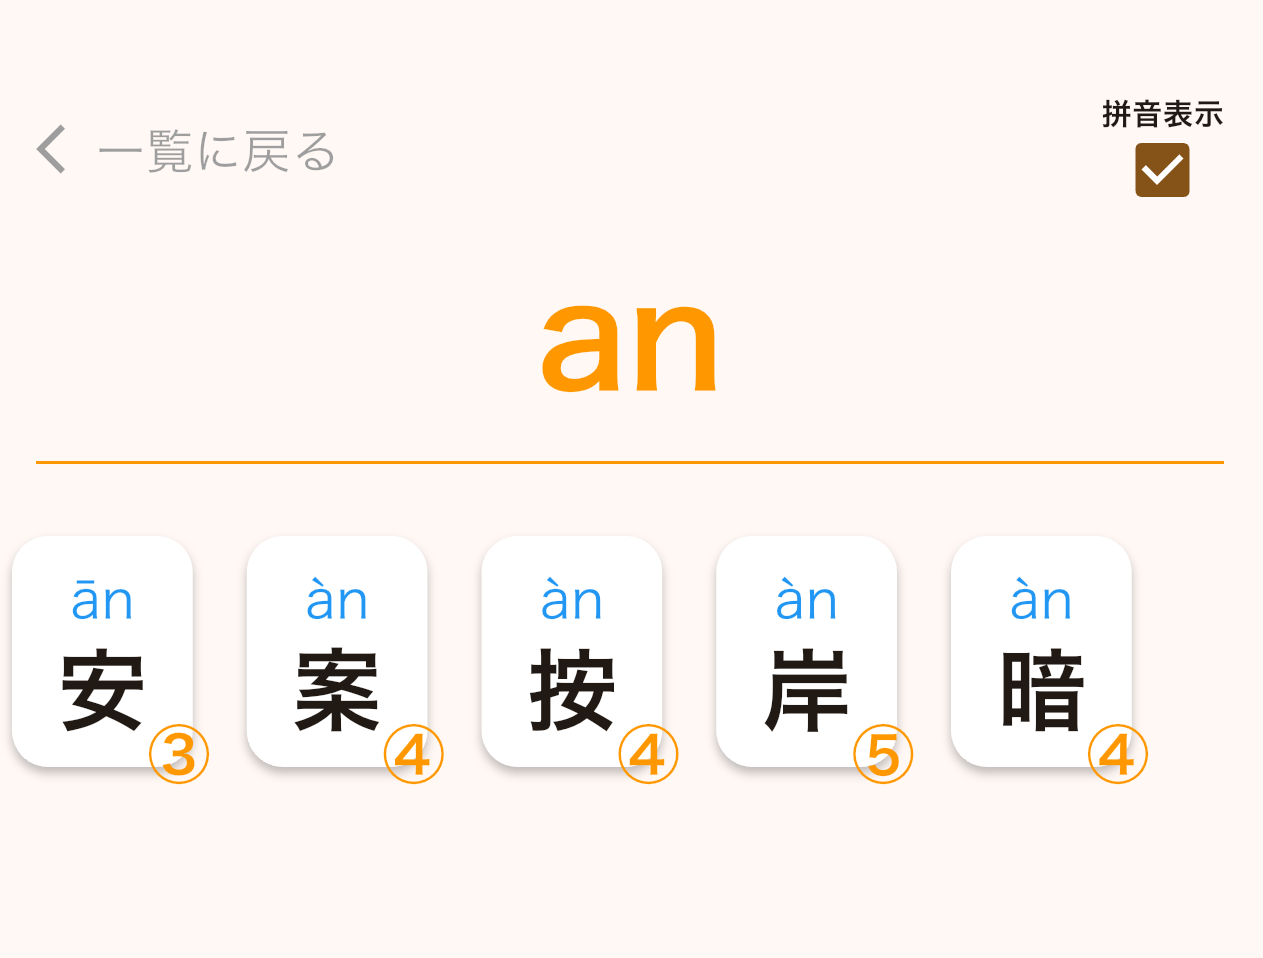
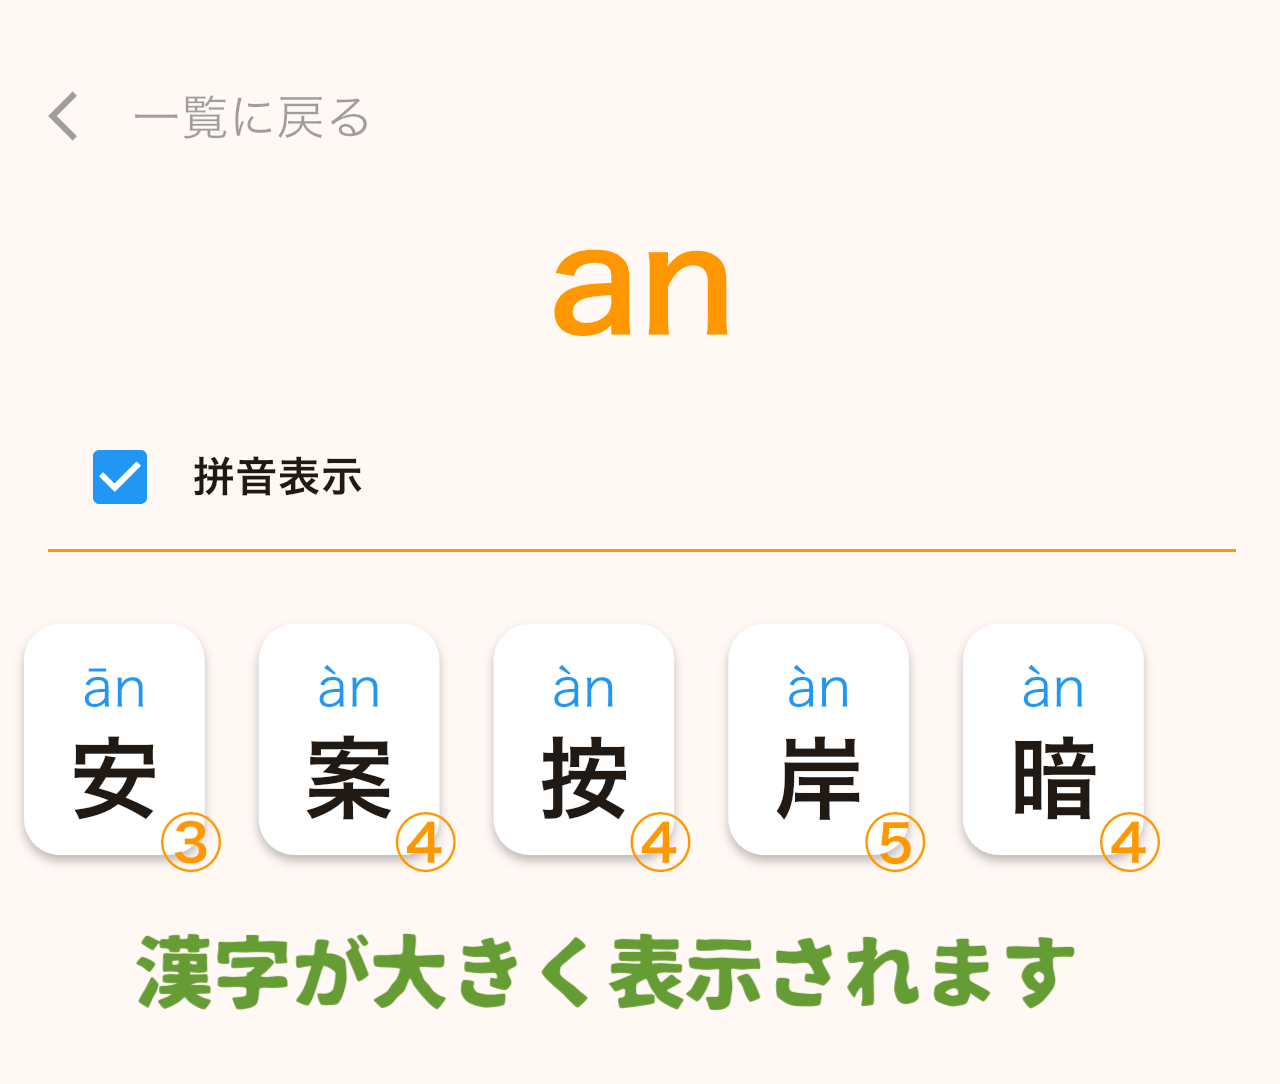
長押し機能の説明追加

diff --git a/README.md b/README.md
@@ -13,13 +13,18 @@
 (※ L1:易しい 〜 L5:難しい)  
  <img src="images/単語画面抽出.png" width="230" style="max-width: 100%;">
 
+- 各単語のレベルやピンインの表示/非表示の選択が可能です  
+<img src="images/単語画面.png" width="300" style="max-width: 100%;">
+
 - 単語をタップすると、詳細画面で意味と例文を表示します  
  <img src="images/単語画面詳細.png" width="300" style="max-width: 100%;">  
  (単語の詳細画面はスワイプ可能です)  
  <img src="images/単語詳細スワイプ.jpg" width="300" style="max-width: 100%;">  
 
-- 各単語のレベルやピンインの表示/非表示の選択も可能です  
-<img src="images/単語画面.png" width="300" style="max-width: 100%;">
+- 詳細画面内の単語を「長押し」すると、漢字の詳細画面へのジャンプが可能です  
+ <img src="images/単語詳細長押し.png" width="300" style="max-width: 100%;">  
+ (長押し後に漢字毎に分解)
+<img src="images/単語詳細長押し選択.png" width="300" style="max-width: 100%;">  
 
 ## 漢字画面
 - 単語を分解した漢字が一覧表示されます
